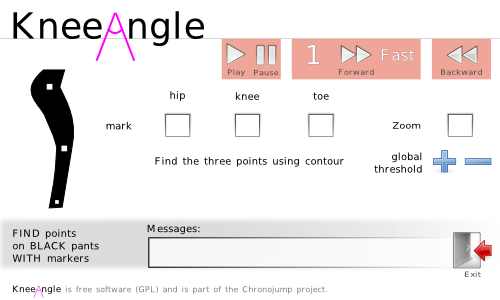
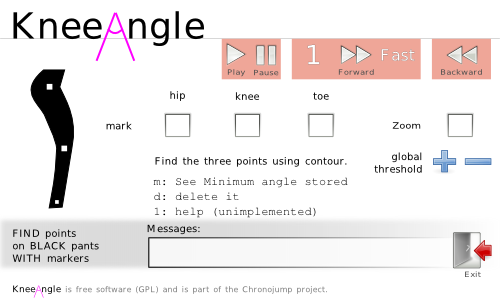
kneeAngle: can show stored minimum frame and delete it

Changed region(s): [[0.3, 0.6, 0.69, 0.72]]

diff --git a/src/angle/kneeAngle.cpp b/src/angle/kneeAngle.cpp
@@ -200,7 +200,6 @@ int main(int argc,char **argv)
 	IplImage *frame=0,*frame_copy=0,*gray=0,*segmented=0,*edge=0,*temp=0,*output=0;
 	IplImage *outputTemp=0, *frame_copyTemp=0;
 	IplImage *segmentedValidationHoles=0;
-	IplImage *segmentedValidationHoles2=0;
 	IplImage *foundHoles=0;
 	IplImage *result=0;
 	IplImage *resultStick=0;
@@ -218,7 +217,6 @@ int main(int argc,char **argv)
 		gui = cvLoadImage("kneeAngle_intro.png");
 		cvShowImage("gui", gui);
 		programMode = menu(gui, font);
-		//printf("programMode: %d\n", programMode);
 	}
 	
 	if(programMode == skinOnlyMarkers) {
@@ -227,7 +225,6 @@ int main(int argc,char **argv)
 	}
 	else if(programMode == blackOnlyMarkers) {	// || programMode == validation) ?
 		usingContour = true;
-		//gui = cvLoadImage("kneeAngle_black.png");
 		gui = cvLoadImage("kneeAngle_black_contour.png");
 	} 
 	else
@@ -261,7 +258,6 @@ int main(int argc,char **argv)
 		cvNamedWindow("result",1);
 	} else if (programMode == skinOnlyMarkers || programMode == blackOnlyMarkers) {
 		cvNamedWindow("threshold",1);
-		//cvNamedWindow("Holes_on_contour",1);
 	}
 	else if (programMode == blackWithoutMarkers)
 		cvNamedWindow("result",1);
@@ -438,7 +434,7 @@ int main(int argc,char **argv)
 			framesCountShowMessage ++;
 			if(framesCountShowMessage >= framesCountShowMessageAt) {
 				eraseGuiResult(gui, true);
-				sprintf(label, "frame: %d...", framesCount);
+				sprintf(label, "frame: %d... (%d%%)", framesCount, 100*framesCount/startAt);
 				imageGuiResult(gui, label, font);
 				cvWaitKey(25); //to allow gui image be shown
 				framesCountShowMessage = 0;
@@ -795,7 +791,8 @@ int main(int argc,char **argv)
 						threshold, thresholdROIH, thresholdROIK, thresholdROIT,
 						thresholdROISizeH, thresholdROISizeK, thresholdROISizeT,
 						thresholdLargestContour, usingContour);
-				
+			
+				//this stores image with above printOnScreen data	
 				if(storeResultImage) {
 					cvCopy(frame_copy,result);
 					storeResultImage = false;
@@ -1319,7 +1316,14 @@ int main(int argc,char **argv)
 			//if a threshold button is pushed, force a pause
 			forcePause = true;
 		}
-		
+		else if(key == 'm') {
+			forcePause = true;
+			mouseClicked = MINIMUMFRAMESHOW;
+		}
+		else if(key == 'd') {
+			forcePause = true;
+			mouseClicked = MINIMUMFRAMEDELETE;
+		}
 		
 		//pause is also forced on skin if a marker is not ok
 		if (mouseClicked == PLAYPAUSE || key == 'p' || forcePause) 
@@ -1383,6 +1387,17 @@ int main(int argc,char **argv)
 					imageGuiResult(gui, "FastForwarding...", font);
 					done = true;
 				}
+				
+				else if(mouseClicked == MINIMUMFRAMESHOW || key == 'm') {
+					cvShowImage("Minimum Frame", result);
+					imageGuiResult(gui, "Shown minimum frame. Paused.", font);
+				}
+				else if(mouseClicked == MINIMUMFRAMEDELETE || key == 'd') { 
+					minThetaMarked = 360;
+					cvShowImage("Minimum Frame", result);
+					imageGuiResult(gui, "Deleted stored angle. Paused.", font);
+				}
+		
 				
 				else if(mouseClicked == ZOOM || key == 'z') {
 					if(zoomed) {

diff --git a/src/angle/kneeAngleGlobal.cpp b/src/angle/kneeAngleGlobal.cpp
@@ -100,7 +100,8 @@ enum {
 	SKNEEMORE = 23, SKNEELESS = 24, 
 	STOEMORE = 25, STOELESS = 26,
 	TCONTOURMORE = 27, TCONTOURLESS = 28,
-	BACKTOCONTOUR = 29
+	BACKTOCONTOUR = 29,
+	MINIMUMFRAMESHOW = 30, MINIMUMFRAMEDELETE = 31
 }; 
 
 enum { TOGGLENOTHING = -1, TOGGLEHIP = 0, TOGGLEKNEE = 1, TOGGLETOE = 2};
